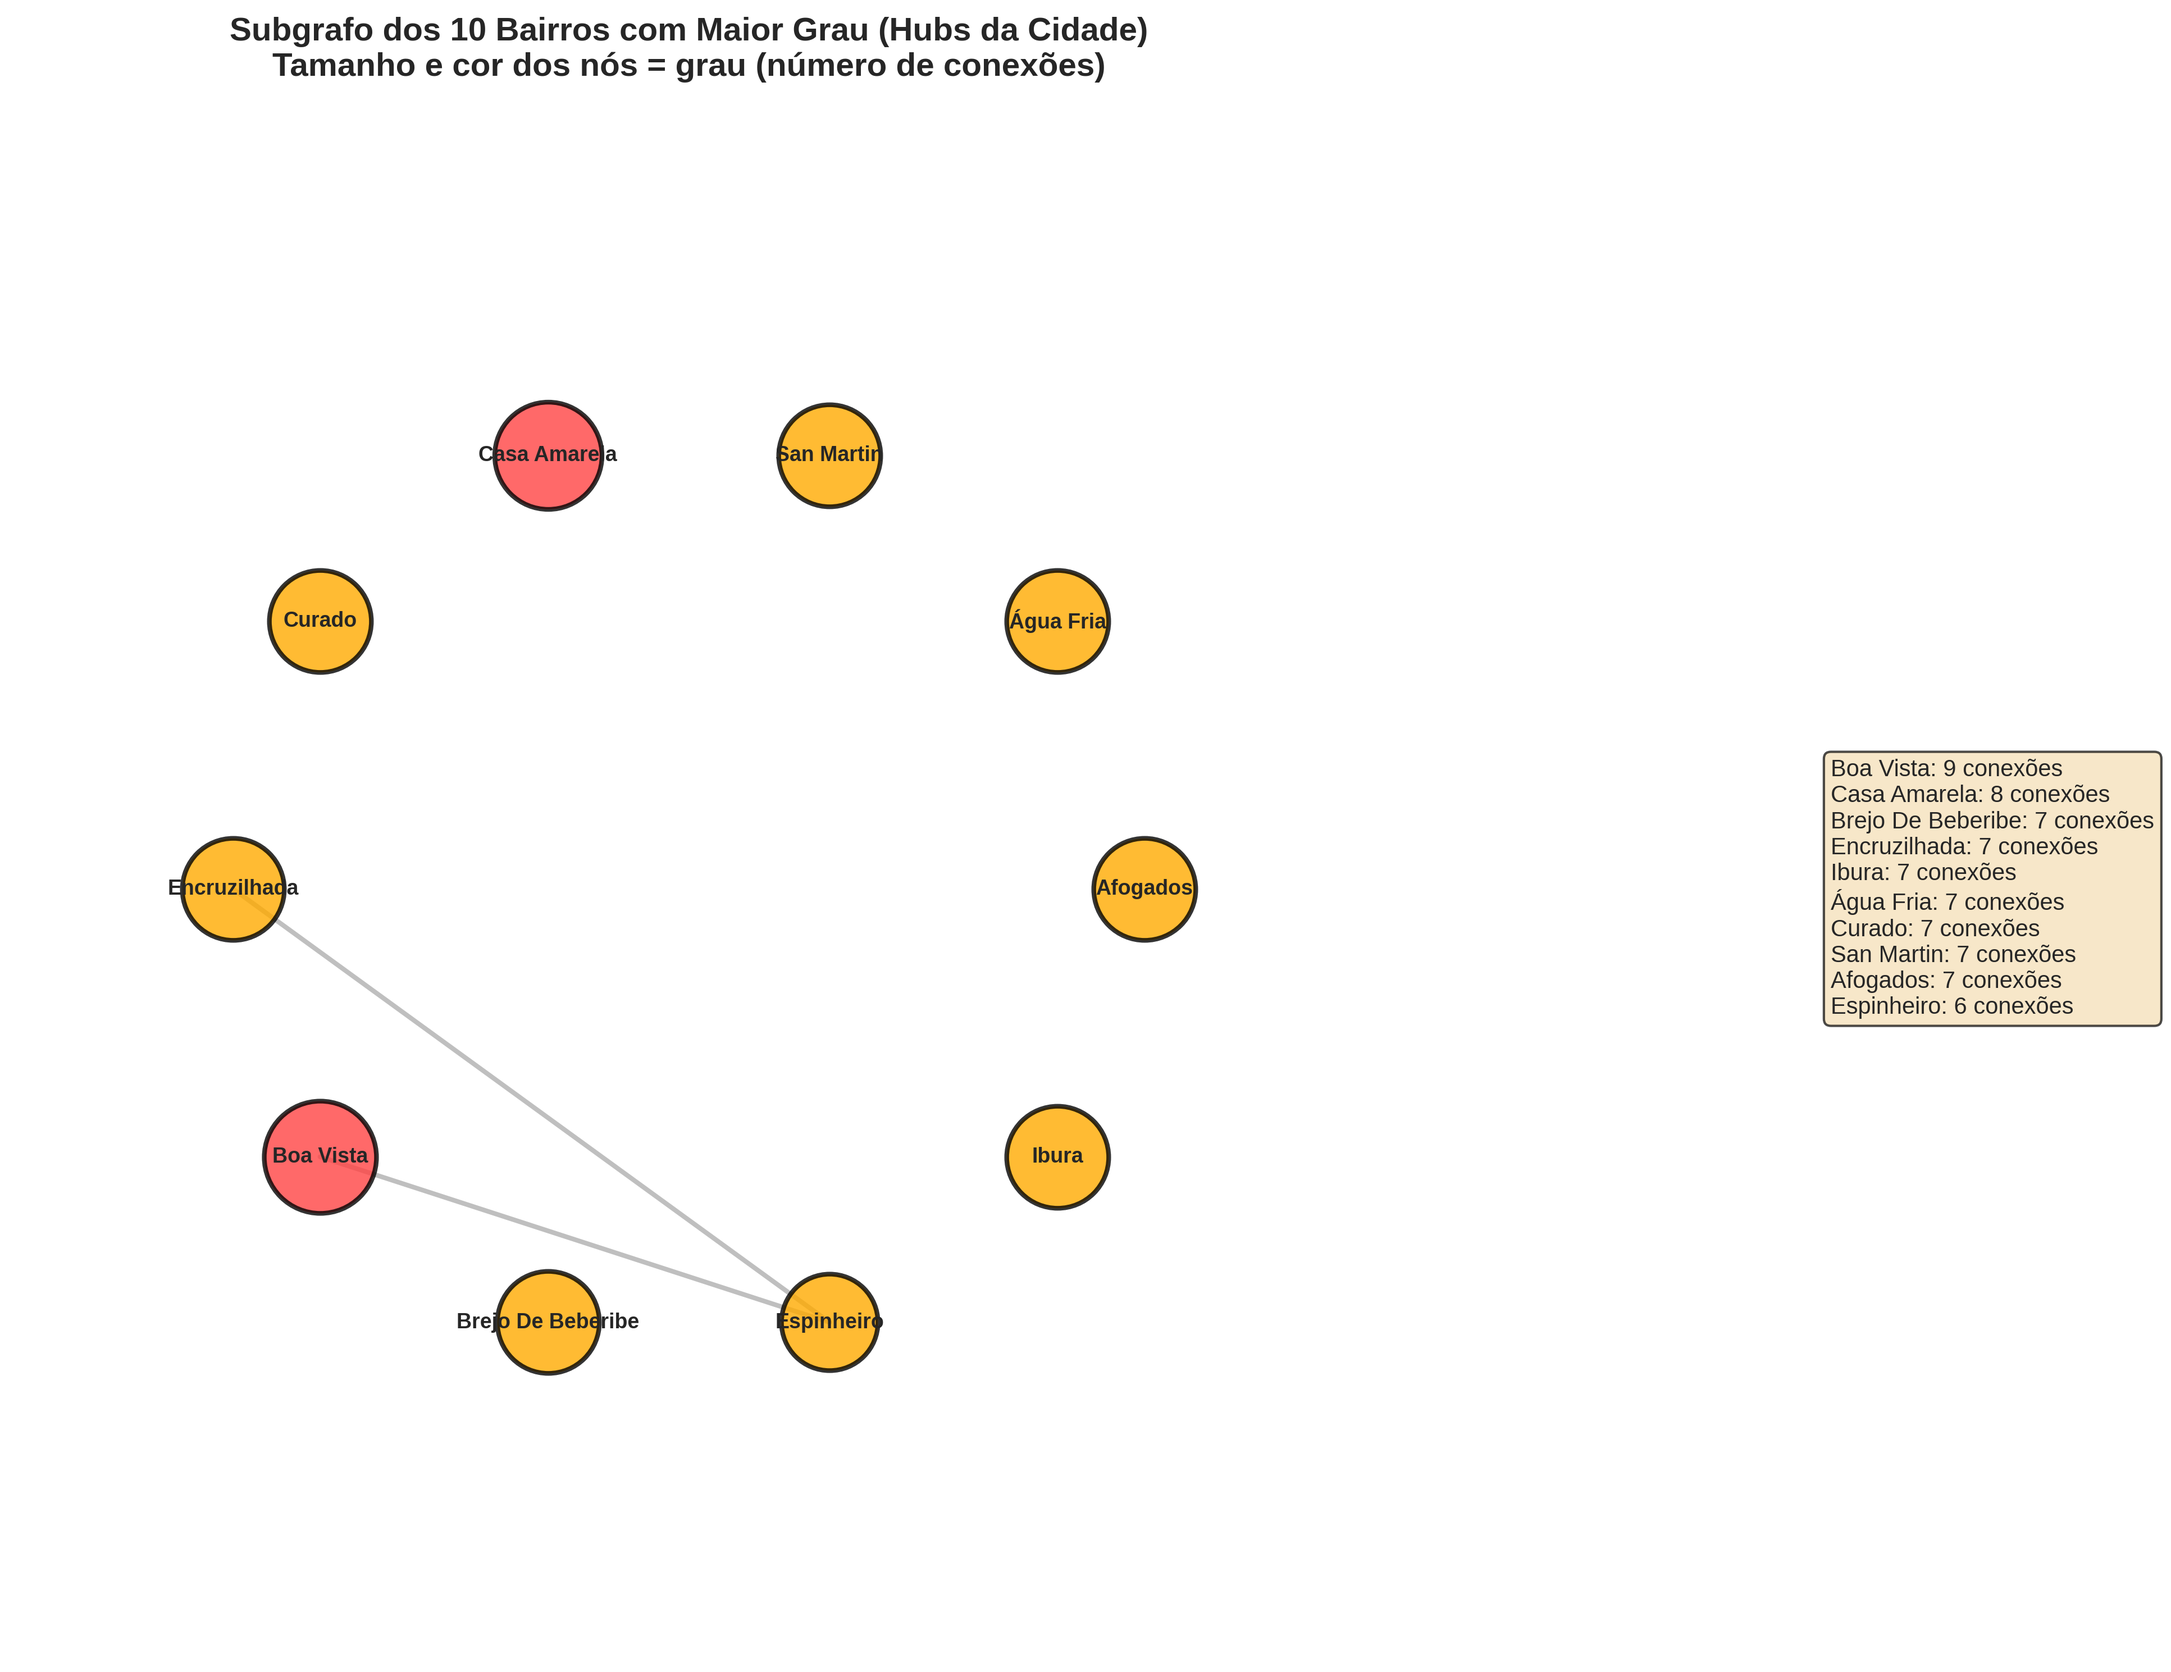
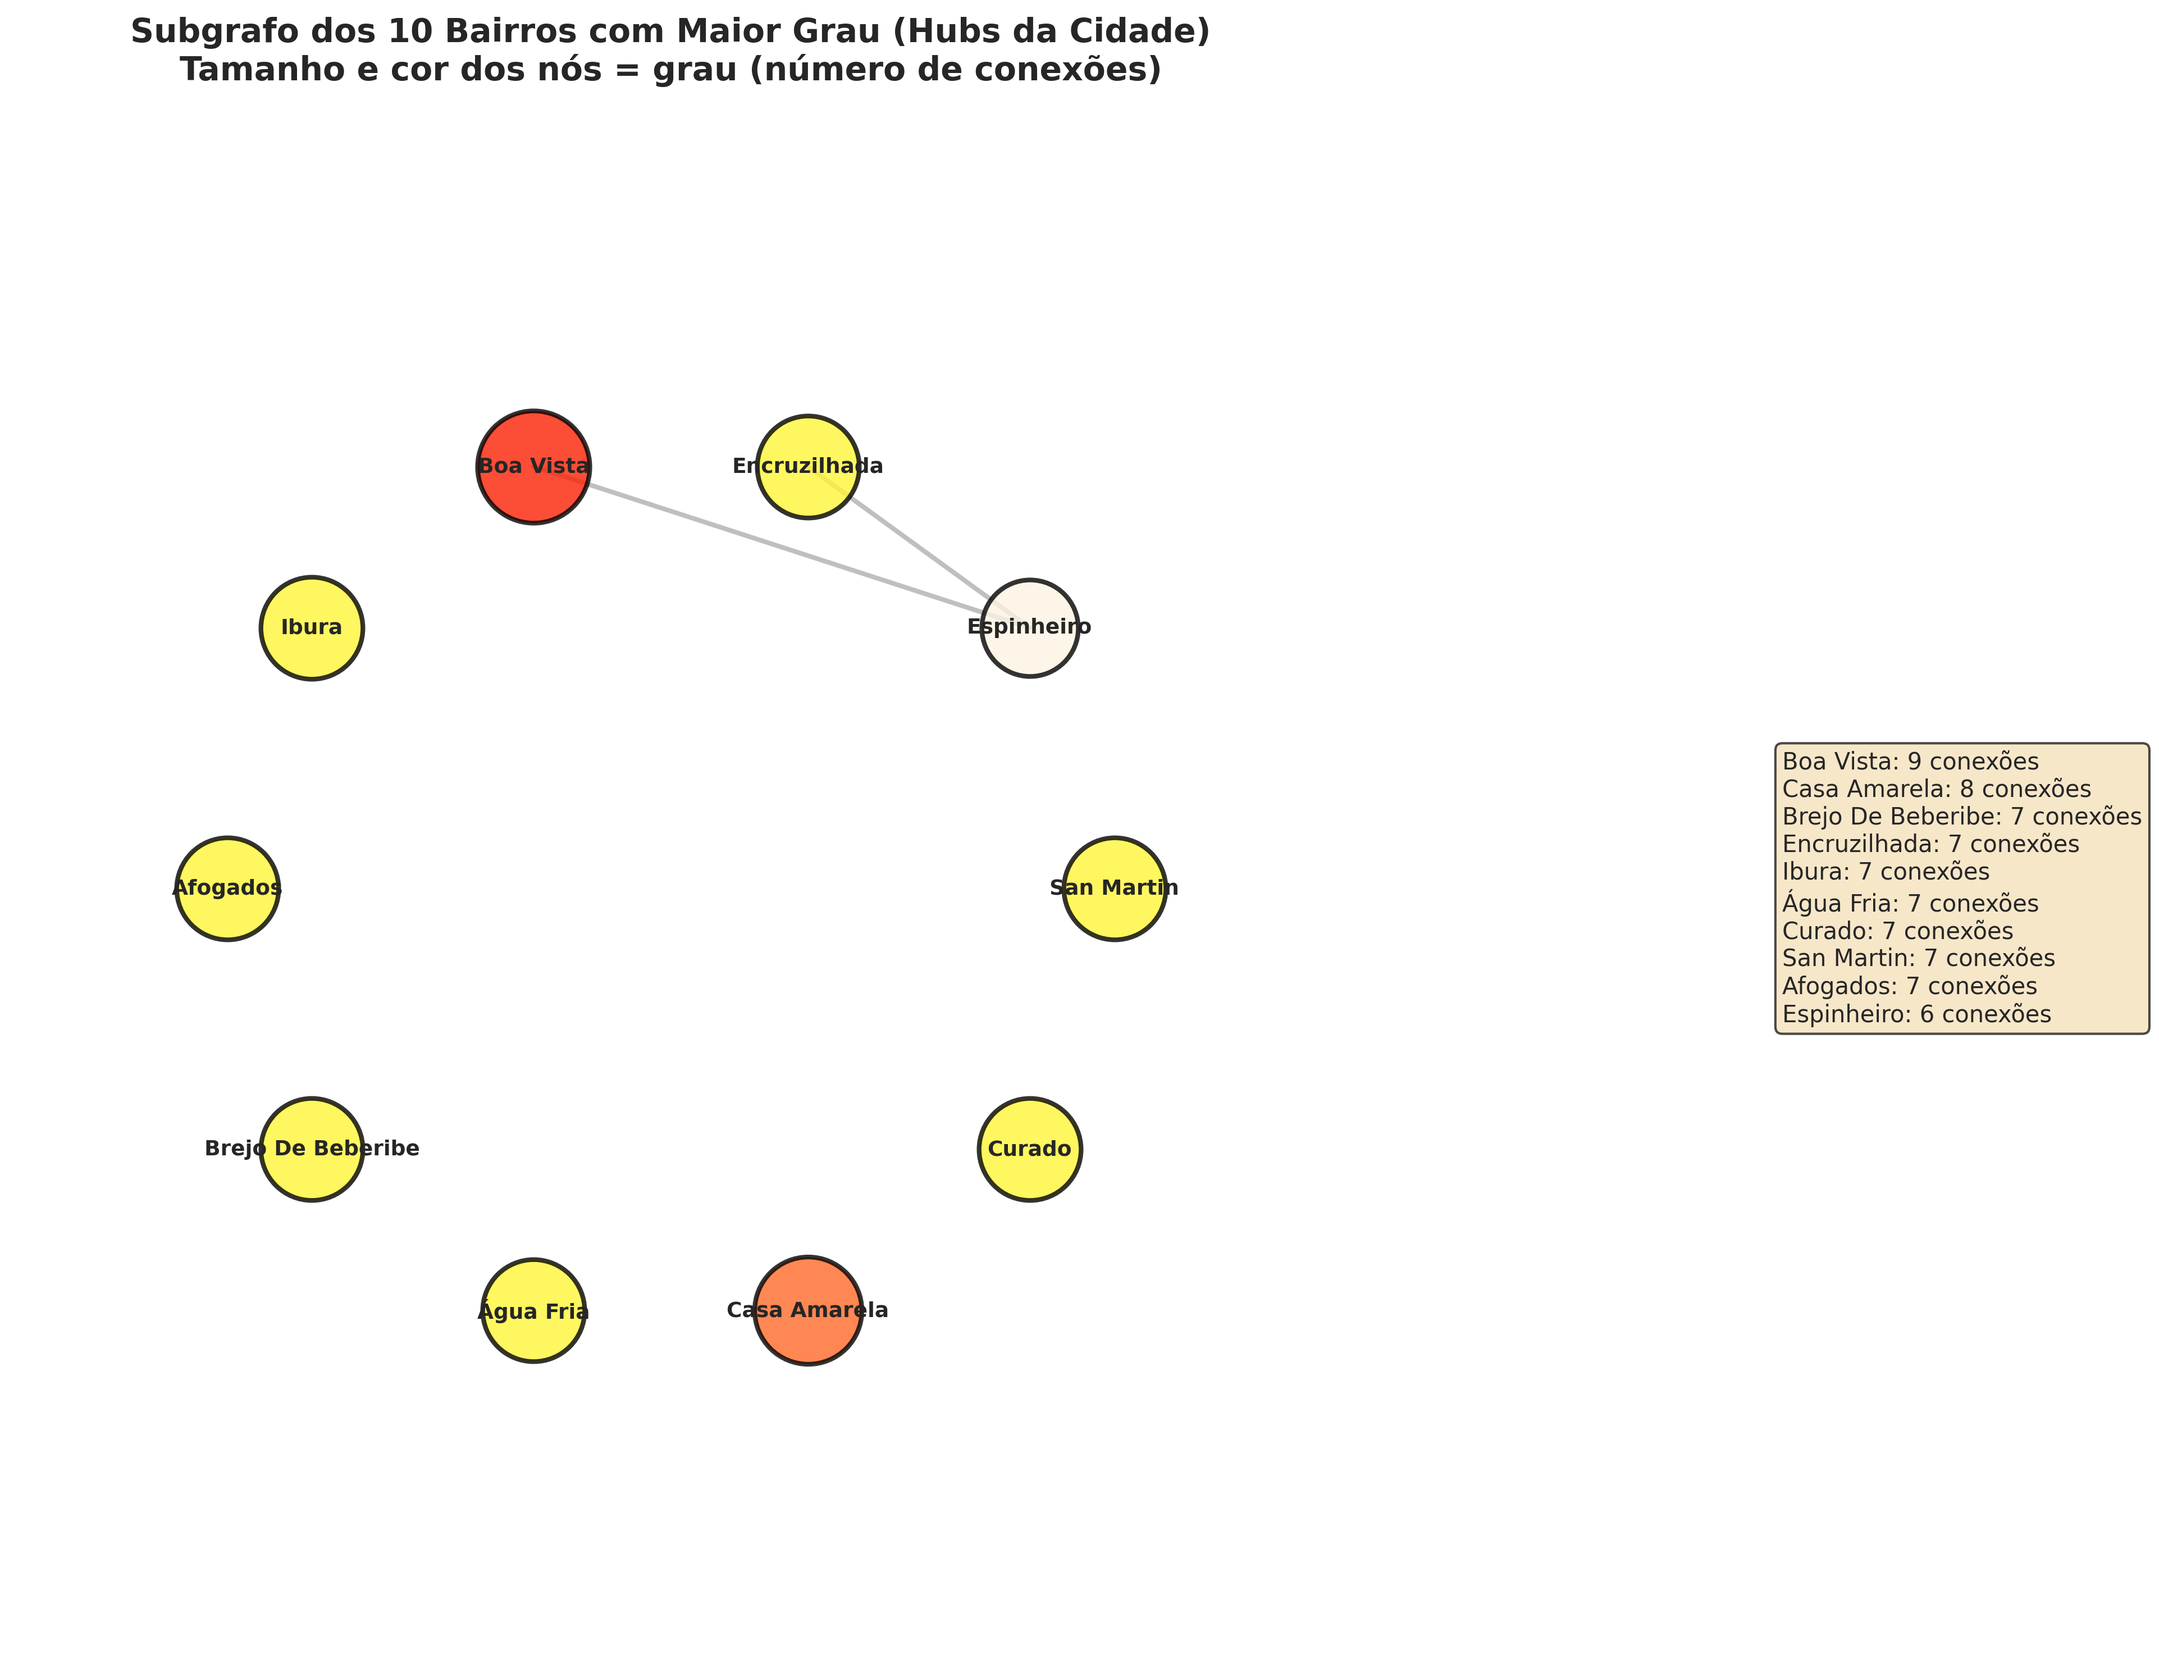
refactor: changed subgraph_top10_neighborhoods colors

diff --git a/src/viz.py b/src/viz.py
@@ -154,33 +154,17 @@ class GraphVisualizer:
             degree = degrees.get(v, 1)
 
             size = 500 + degree * 200
-            if degree >= 8:
-                color = "#ff4444"
-            elif degree >= 6:
-                color = "#ffaa00"
+            if degree >= 9:
+                color = "#FC2103"
+            elif degree >= 8:
+                color = "#FF6929"
+            elif degree >= 7:
+                color = "#FFF538"
             else:
-                color = "#44aa44"
+                color = "#FDF4E3"
 
-            ax.scatter(
-                x,
-                y,
-                s=size,
-                c=color,
-                edgecolors="black",
-                linewidths=2,
-                zorder=2,
-                alpha=0.8,
-            )
-            ax.text(
-                x,
-                y,
-                v,
-                fontsize=9,
-                fontweight="bold",
-                ha="center",
-                va="center",
-                zorder=3,
-            )
+            ax.scatter(x,y,s=size,c=color,edgecolors="black",linewidths=2,zorder=2,alpha=0.8,)
+            ax.text(x,y,v,fontsize=9,fontweight="bold",ha="center",va="center",zorder=3,)
 
         ax.set_title(
             "Subgrafo dos 10 Bairros com Maior Grau (Hubs da Cidade)\n"
